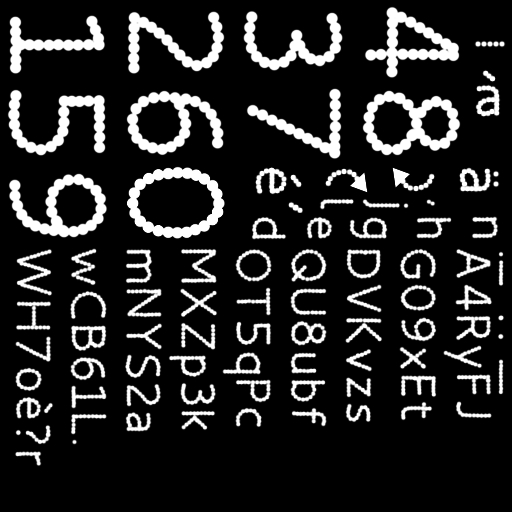
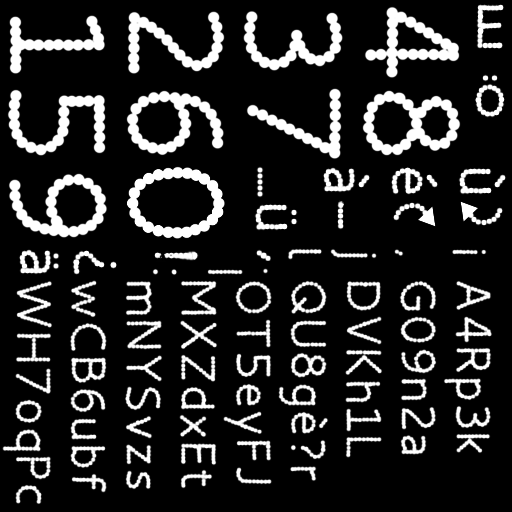
Update font and translations

Changed region(s): [[0.0, 0.3125, 1.0, 1.0], [0.9062, 0.0, 1.0, 0.0938], [0.9062, 0.125, 1.0, 0.25]]

diff --git a/linux/heriswap.cpp b/linux/heriswap.cpp
@@ -358,7 +358,7 @@ int main(int argc, char** argv) {
 	game->sacInit(reso->X,reso->Y);
 
 #ifndef EMSCRIPTEN
-    setlocale( LC_ALL, "" );
+    // setlocale( LC_ALL, "" );
 	loc->init();
 	glfwSetCharCallback(myCharCallback);
 #endif
